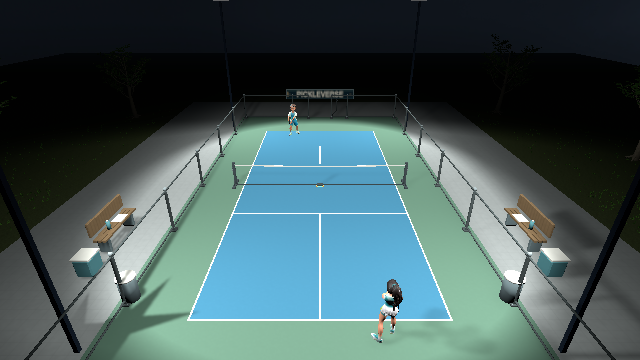
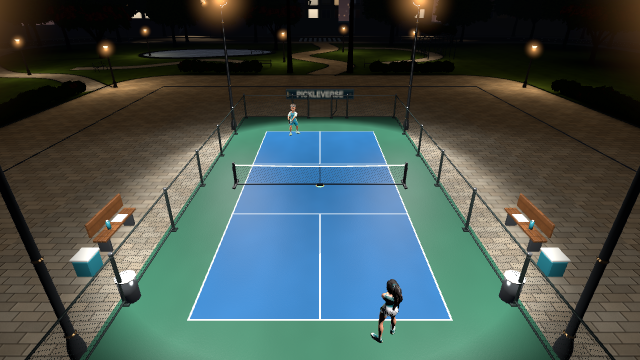
feat(frontend): refresh venue previews for the golden-hour district
The mode selection previews still showed the October venues. They are
re-rendered with the same framing, size and import settings (same GUIDs):
golden-hour day and lamp-lit night. The Editor probe gains the preview
capture and a Play mode check that walks BotMatch -> Menu -> BotMatch
through day, dusk and night and verifies the lighting globals.

diff --git a/My project/Assets/Editor/VenueRefinement/SunsetDistrictProbe.cs b/My project/Assets/Editor/VenueRefinement/SunsetDistrictProbe.cs
@@ -172,6 +172,50 @@ public static class SunsetDistrictProbe
         }
     }
 
+    // ---------------------------------------------------------------- ModeSelection venue previews (Edit mode)
+    // Same framing, size and import settings as VenueRefinementSceneChecks.UpdateSelectionPreviews (2026-10-25),
+    // re-rendered so the venue picker shows the current golden-hour day and lamp-lit night. Files keep their GUIDs.
+    public static object UpdateSelectionPreviews()
+    {
+        if (EditorApplication.isPlaying || SceneManager.GetActiveScene().isDirty) throw new Exception("Clean Edit mode required");
+        string previous = SceneManager.GetActiveScene().path;
+        var updated = new List<string>();
+        try
+        {
+            foreach (string id in Keys)
+            {
+                EditorSceneManager.OpenScene("Assets/Scenes/BotMatch.unity");
+                var lighting = UnityEngine.Object.FindAnyObjectByType<MatchEnvironmentLighting>();
+                lighting.stadium.gameObject.SetActive(false);
+                lighting.stadium = UnityEngine.Object.Instantiate(AssetDatabase.LoadAssetAtPath<GameObject>("Assets/Resources/Courts/" + id + ".prefab")).GetComponent<StadiumEnvironment>();
+                var camera = lighting.matchCamera;
+                camera.transform.position = new Vector3(0, 6.5f, -12.5f); camera.transform.LookAt(new Vector3(0, 0, .5f)); camera.fieldOfView = 54;
+                foreach (bool night in new[] { false, true })
+                {
+                    lighting.SelectForMatch(night);
+                    string path = "Assets/FrontEndContent/Artwork/Courts/" + id + (night ? "_Night" : "_Day") + ".png";
+                    camera.Render();      // warm up shader variants (the Editor compiles them asynchronously)
+                    Shot(camera, "preview-warmup.png", 640, 360);
+                    Shot(camera, "preview-" + id + (night ? "-Night" : "-Day") + ".png", 640, 360);
+                    File.Copy(Out("preview-" + id + (night ? "-Night" : "-Day") + ".png"), path, true);
+                    AssetDatabase.ImportAsset(path, ImportAssetOptions.ForceSynchronousImport);
+                    var importer = (TextureImporter)AssetImporter.GetAtPath(path);
+                    importer.mipmapEnabled = false; importer.maxTextureSize = 512; importer.wrapMode = TextureWrapMode.Clamp; importer.textureCompression = TextureImporterCompression.CompressedHQ;
+                    importer.SaveAndReimport();
+                    updated.Add(path);
+                }
+            }
+            var dependencies = new HashSet<string>(AssetDatabase.GetDependencies("Assets/Scenes/UI/ModeSelection.unity", true));
+            return new { updated, referencedByModeSelection = updated.All(dependencies.Contains) };
+        }
+        finally
+        {
+            if (!string.IsNullOrEmpty(previous)) EditorSceneManager.OpenScene(previous);
+            else EditorSceneManager.NewScene(NewSceneSetup.EmptyScene);
+            File.Delete(Out("preview-warmup.png"));
+        }
+    }
+
     // ---------------------------------------------------------------- live presentation regression (Play mode)
     // Same scenario as VenueRefinementPresentationChecks (actual Menu + BotMatch scenes, runtime venue switch,
     // entrance cinematic, local rules/ball simulation, outcome cameras, day/night), with end-of-frame screenshots.
@@ -270,6 +314,86 @@ public static class SunsetDistrictProbe
             manual = null; visual = null; liveRecord = false; EditorApplication.update -= LiveTick; Application.logMessageReceived -= Log; SceneManager.sceneLoaded -= BotLoaded;
             JsonUtility.FromJsonOverwrite(saved, GameSettings.Current); SettingsRuntime.Apply(GameSettings.Current);
         }
+    }
+
+    // ---------------------------------------------------------------- day/night consistency across scenes (Play mode)
+    // BotMatch (both venues) -> Menu (its own day/night cycle) -> BotMatch again: the environment shader globals
+    // must follow each scene's own time of day, never what the previous scene left behind.
+    static object Globals() => new
+    {
+        nightGlow = Shader.GetGlobalFloat("_PV_NightGlow"), nightLights = Shader.GetGlobalFloat("_PV_NightLightsOn"),
+        sunMask = Shader.GetGlobalFloat("_PV_SunMaskOn"), mask = Shader.GetGlobalTexture("_PV_SunMask") ? Shader.GetGlobalTexture("_PV_SunMask").name : null
+    };
+    static void Expect(string name, float glow, float lights, float sun)
+    {
+        float g = Shader.GetGlobalFloat("_PV_NightGlow"), l = Shader.GetGlobalFloat("_PV_NightLightsOn"), s = Shader.GetGlobalFloat("_PV_SunMaskOn");
+        checks.Add(new { name, passed = Mathf.Abs(g - glow) < .02f && Mathf.Abs(l - lights) < .02f && Mathf.Abs(s - sun) < .02f, globals = Globals() });
+    }
+    static async Task<T> LoadAndFind<T>(string scene) where T : UnityEngine.Object
+    {
+        SceneManager.LoadScene(scene);
+        for (int i = 0; i < 150; i++)
+        {
+            await Task.Delay(100);
+            if (SceneManager.GetActiveScene().name == scene)
+            {
+                var found = UnityEngine.Object.FindAnyObjectByType<T>();
+                if (found) { await Task.Delay(300); return found; }
+            }
+        }
+        throw new Exception(scene + " did not load");
+    }
+    public static object LightingSync()
+    {
+        if (!Application.isPlaying) throw new Exception("Play mode required");
+        if (task != null && !task.IsCompleted) throw new Exception("Probe already running");
+        checks.Clear(); errors.Clear(); task = RunLightingSync();
+        return new { started = true, path = Out("lighting-sync.json") };
+    }
+    static async Task RunLightingSync()
+    {
+        void Save(string status) => File.WriteAllText(Out("lighting-sync.json"), JsonConvert.SerializeObject(new { status, checks, errors }, Formatting.Indented));
+        Application.logMessageReceived += Log; SceneManager.sceneLoaded += BotLoaded;
+        try
+        {
+            // Signed-out fixture: the sign-in/offline gates are removed from this temporary Play session only.
+            foreach (var component in UnityEngine.Object.FindObjectsByType<MonoBehaviour>(FindObjectsInactive.Include, FindObjectsSortMode.None))
+                if (component.GetType().FullName is "PickleVerse.FrontEnd.AccountScreen" or "PickleVerse.FrontEnd.TrainingAccessOverlay" or "PickleVerse.FrontEnd.AuthenticationNavigation")
+                    UnityEngine.Object.Destroy(component.gameObject);
+            var view = EditorWindow.GetWindow(typeof(Editor).Assembly.GetType("UnityEditor.GameView")); view.Show(); view.Focus();
+            await Task.Delay(200);
+            await LoadAndFind<Camera>("Menu"); await Task.Delay(1000);      // same entry path as the game
+            foreach (CourtVenue venue in new[] { CourtVenue.Professional, CourtVenue.LowPoly })
+            {
+                var m = await LoadAndFind<BotMatch>("BotMatch"); m.GetComponent<CourtVenueSelection>().Select(venue);
+                var lighting = m.GetComponent<MatchEnvironmentLighting>();
+                lighting.SelectForMatch(false); await Task.Delay(2500); Expect(venue + " BotMatch day", 0, 0, 1); await LivePicture("Sync-BotMatch-" + venue + "-Day");
+                lighting.SelectForMatch(true); await Task.Delay(3500); Expect(venue + " BotMatch night", 1, 1, 0); await LivePicture("Sync-BotMatch-" + venue + "-Night");
+            }
+            // Arrive in the Menu straight from a night match: its own cycle must decide.
+            await LoadAndFind<Camera>("Menu"); await Task.Delay(1200);
+            Check("Menu loaded", SceneManager.GetActiveScene().name == "Menu");
+            var lobby = UnityEngine.Object.FindObjectsByType<MonoBehaviour>(FindObjectsSortMode.None).First(c => c.GetType().Name == "HomeLobbyPresentation");
+            var type = lobby.GetType();
+            float cycle = (float)type.GetField("cycleSeconds").GetValue(lobby);
+            var elapsed = type.GetProperty("CycleElapsed");
+            foreach (var (label, phase, night) in new[] { ("Day", .10f, 0f), ("Dusk", .32f, -1f), ("Night", .57f, 1f) })
+            {
+                float seconds = phase * Mathf.Max(30, cycle);
+                elapsed.SetValue(lobby, seconds); type.GetMethod("EvaluateCycle").Invoke(lobby, new object[] { seconds }); await Task.Delay(500);
+                float w = (float)type.GetProperty("NightWeight").GetValue(lobby);
+                if (night >= 0) Expect("Menu " + label, night, night, 0);
+                else checks.Add(new { name = "Menu Dusk blends with the lobby cycle", passed = Mathf.Abs(Shader.GetGlobalFloat("_PV_NightGlow") - w) < .05f && Mathf.Abs(Shader.GetGlobalFloat("_PV_NightLightsOn") - w) < .05f && w > .05f && w < .95f, globals = Globals(), lobbyNight = w });
+                await LivePicture("Sync-Menu-" + label);
+            }
+            // And back: a day match after the Menu's night must be fully daylit again.
+            var again = await LoadAndFind<BotMatch>("BotMatch"); again.GetComponent<CourtVenueSelection>().Select(CourtVenue.Professional);
+            again.GetComponent<MatchEnvironmentLighting>().SelectForMatch(false); await Task.Delay(400); Expect("BotMatch day after Menu night", 0, 0, 1);
+            Check("No runtime errors", errors.Count == 0);
+            Save(checks.All(c => (bool)c.GetType().GetProperty("passed").GetValue(c)) ? "passed" : "failed");
+        }
+        catch (Exception error) { errors.Add(error.ToString()); Save("failed"); }
+        finally { Application.logMessageReceived -= Log; SceneManager.sceneLoaded -= BotLoaded; }
     }
 
     // ---------------------------------------------------------------- measured frames (Play mode)
